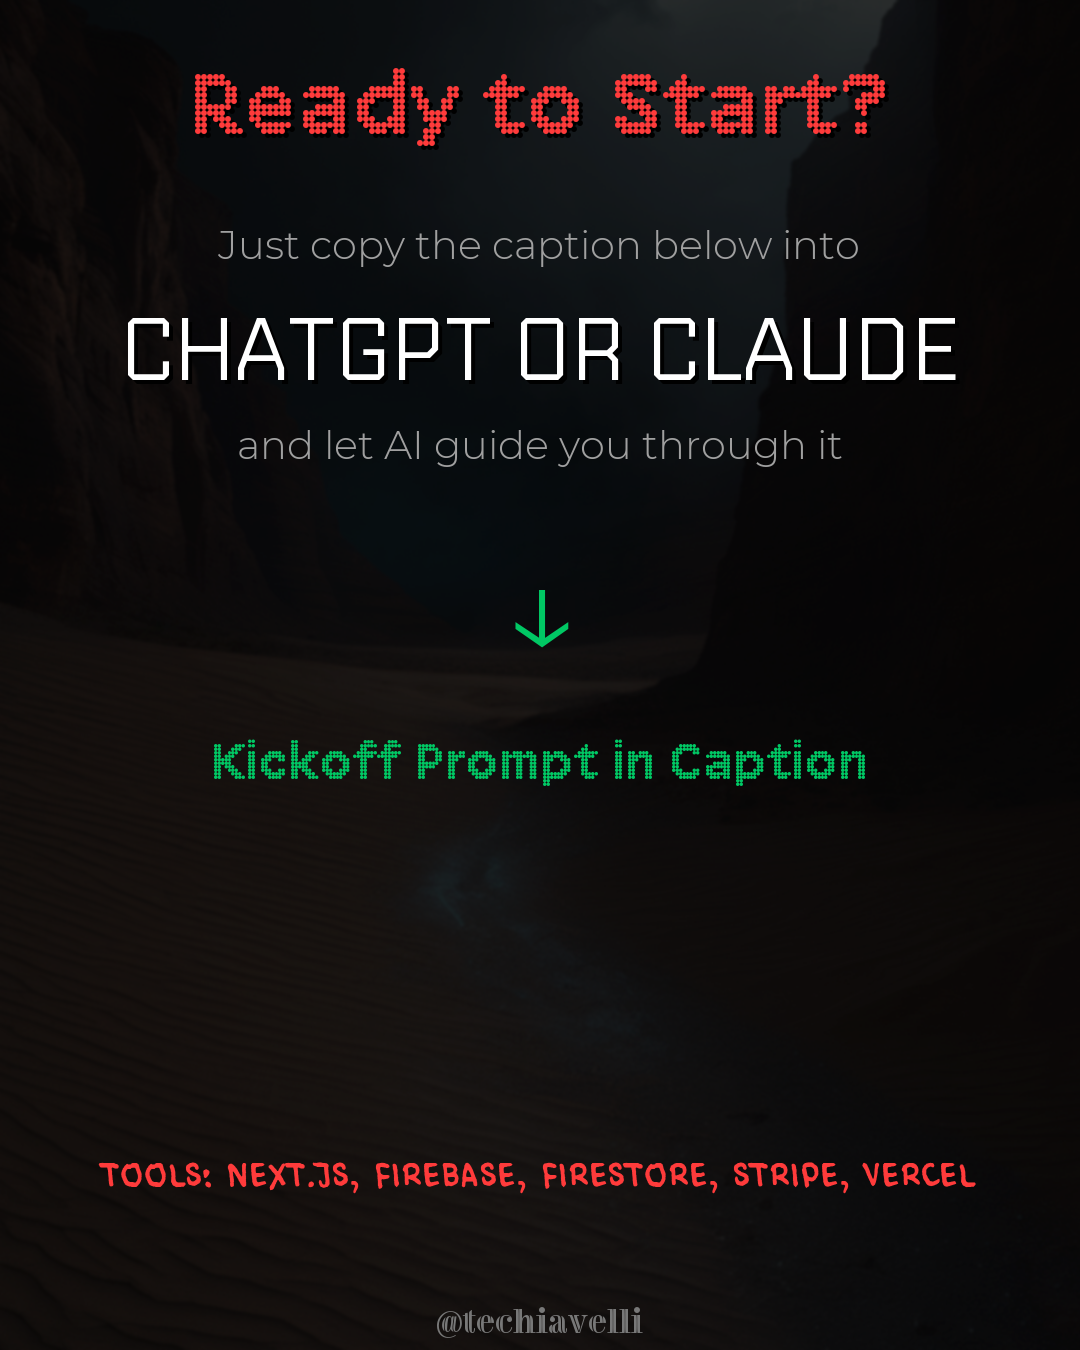
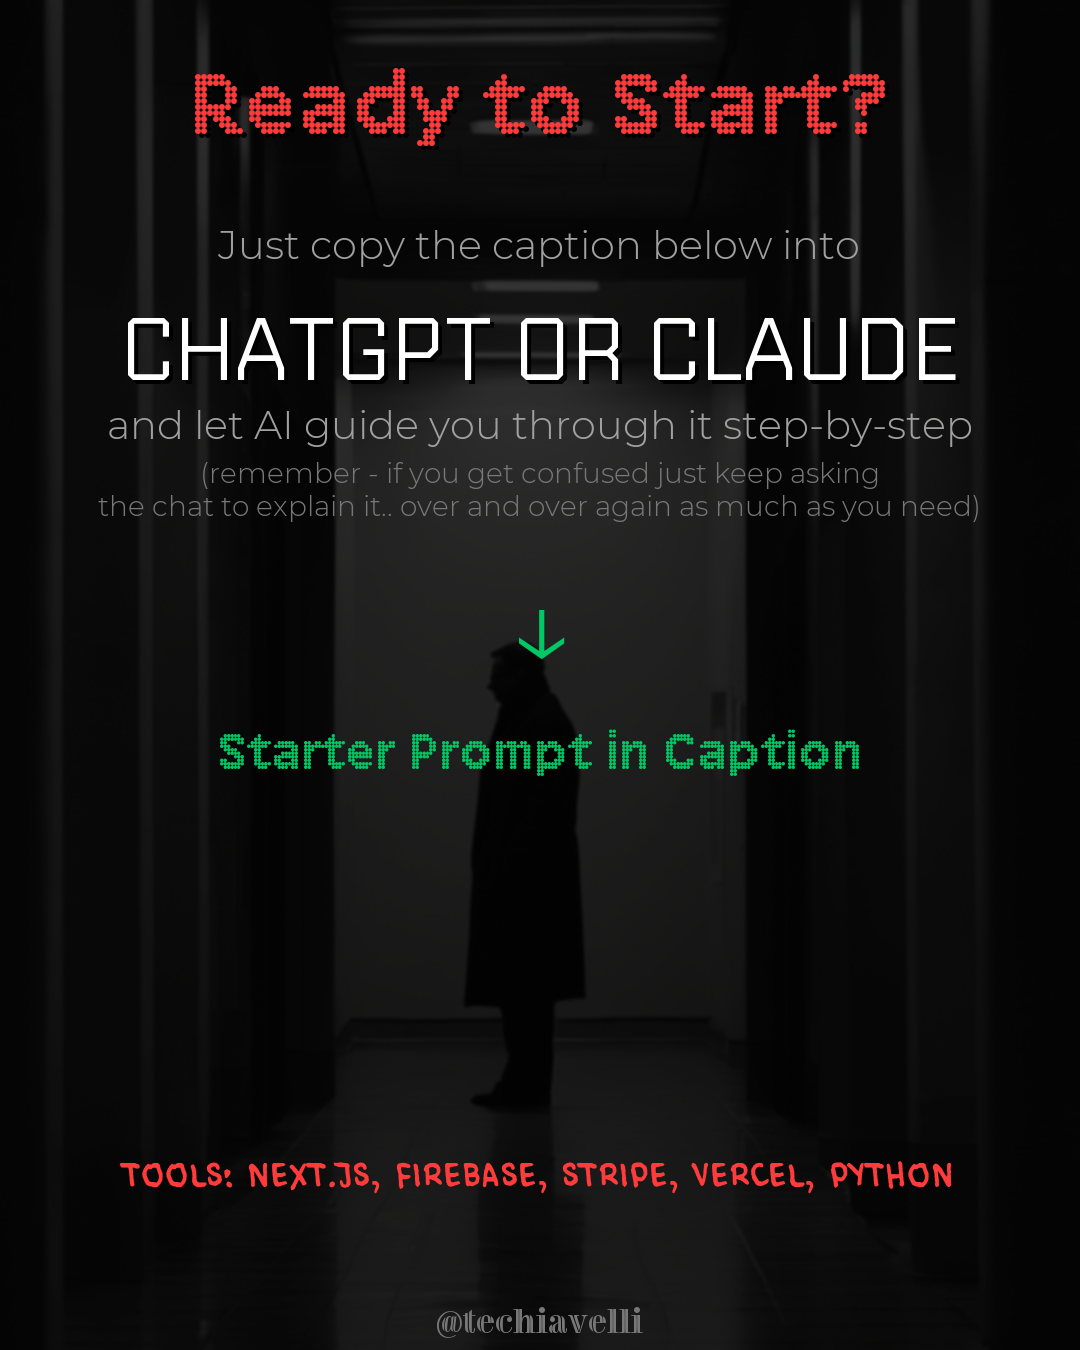
Update prompt text and improve caption guidance for users
Modify the CTA slide in `scripts/daily_aid_slide_builder.py` to update the prompt text, adjust font sizes for better readability, and reposition graphical elements.

Replit-Commit-Author: Agent
Replit-Commit-Session-Id: e097bc39-29f9-42ff-9f58-d372b871b7d4
Replit-Commit-Checkpoint-Type: full_checkpoint
Replit-Commit-Event-Id: e2321c6e-6340-4b8c-8a0c-0d9200a89a8a

diff --git a/scripts/daily_aid_slide_builder.py b/scripts/daily_aid_slide_builder.py
@@ -453,22 +453,32 @@ class DailyAidSlideBuilder:
         x = (self.width - (bbox[2] - bbox[0])) // 2
         self._draw_text_with_shadow(draw, (x, 290), cta_main, main_font, (255, 255, 255), shadow_offset=4)
         
-        cta_label2 = "and let AI guide you through it"
+        cta_label2 = "and let AI guide you through it step-by-step"
         bbox = draw.textbbox((0, 0), cta_label2, font=label_font)
         x = (self.width - (bbox[2] - bbox[0])) // 2
-        draw.text((x, 420), cta_label2, font=label_font, fill=(160, 160, 160))
+        draw.text((x, 400), cta_label2, font=label_font, fill=(160, 160, 160))
+        
+        tip_font = ImageFont.truetype('assets/fonts/Montserrat-Light.ttf', 28)
+        tip_text = "(remember - if you get confused just keep asking"
+        tip_text2 = "the chat to explain it.. over and over again as much as you need)"
+        bbox = draw.textbbox((0, 0), tip_text, font=tip_font)
+        x = (self.width - (bbox[2] - bbox[0])) // 2
+        draw.text((x, 455), tip_text, font=tip_font, fill=(120, 120, 120))
+        bbox = draw.textbbox((0, 0), tip_text2, font=tip_font)
+        x = (self.width - (bbox[2] - bbox[0])) // 2
+        draw.text((x, 488), tip_text2, font=tip_font, fill=(120, 120, 120))
         
         arrow_text = "↓"
-        arrow_font = ImageFont.truetype('assets/fonts/Montserrat-Light.ttf', 140)
+        arrow_font = ImageFont.truetype('assets/fonts/Montserrat-Light.ttf', 120)
         bbox = draw.textbbox((0, 0), arrow_text, font=arrow_font)
         x = (self.width - (bbox[2] - bbox[0])) // 2
-        draw.text((x, 520), arrow_text, font=arrow_font, fill=green_rgb)
+        draw.text((x, 550), arrow_text, font=arrow_font, fill=green_rgb)
         
         hint_font = ImageFont.truetype('assets/fonts/Array-Wide.ttf', 55)
-        caption_hint = "Kickoff Prompt in Caption"
+        caption_hint = "Starter Prompt in Caption"
         bbox = draw.textbbox((0, 0), caption_hint, font=hint_font)
         x = (self.width - (bbox[2] - bbox[0])) // 2
-        draw.text((x, 730), caption_hint, font=hint_font, fill=green_rgb)
+        draw.text((x, 720), caption_hint, font=hint_font, fill=green_rgb)
         
         tools = idea.get('tools_mentioned', [])
         if tools:
